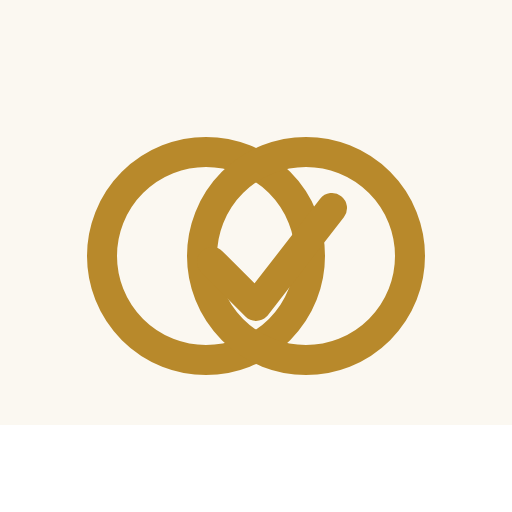
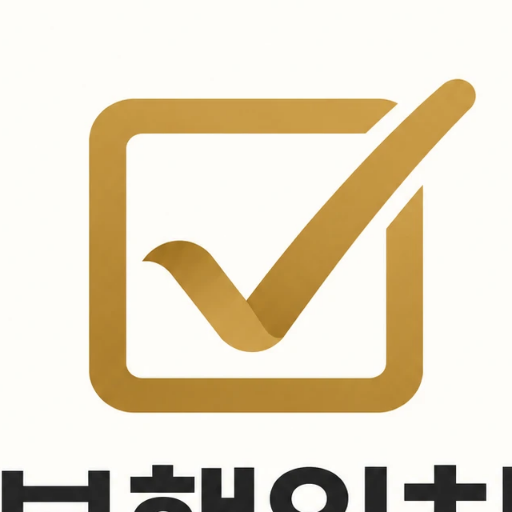
부행일치: 신규 로고 반영, Pretendard 적용, 모던 스타일 리디자인
Claude-Session: https://claude.ai/code/session_01XVsM6j29rv1hchbM6fNT17

diff --git a/habit-app/web/src/components/ui.tsx b/habit-app/web/src/components/ui.tsx
@@ -2,19 +2,20 @@ import type { ButtonHTMLAttributes, InputHTMLAttributes, ReactNode } from "react
 
 const cx = (...a: (string | false | undefined)[]) => a.filter(Boolean).join(" ");
 
-// 골드 버튼 위 글자는 흰색이 아니라 ink (대비 확보)
+// 기본 버튼은 잉크(검정), 골드는 인증 버튼 등 핵심 지점에만 쓴다. 골드 위 글자는 흰색이 아니라 ink.
 export function Button({ variant = "primary", block, className, ...p }:
-  ButtonHTMLAttributes<HTMLButtonElement> & { variant?: "primary" | "line" | "plain" | "danger"; block?: boolean }) {
+  ButtonHTMLAttributes<HTMLButtonElement> & { variant?: "primary" | "gold" | "line" | "plain" | "danger"; block?: boolean }) {
   return (
     <button
       {...p}
       className={cx(
-        "min-h-11 px-4 rounded-lg font-semibold transition-colors disabled:cursor-not-allowed",
+        "inline-flex min-h-12 items-center justify-center gap-2 rounded-2xl px-5 font-bold transition-[background-color,transform] active:scale-[0.98] disabled:cursor-not-allowed disabled:active:scale-100",
         block && "w-full",
-        variant === "primary" && "bg-gold text-ink hover:bg-[#a67a24] disabled:bg-mute disabled:text-ink/70",
-        variant === "line" && "border border-ink/25 text-ink bg-transparent hover:bg-gold-light disabled:text-ink/40",
-        variant === "plain" && "text-ink underline underline-offset-2 disabled:text-ink/40",
-        variant === "danger" && "border border-ink text-ink hover:bg-ink hover:text-paper disabled:opacity-40",
+        variant === "primary" && "bg-ink text-paper hover:bg-ink/90 disabled:bg-mute disabled:text-ink/50",
+        variant === "gold" && "bg-gold text-ink hover:bg-[#a67a24] disabled:bg-mute disabled:text-ink/50",
+        variant === "line" && "bg-gold-light/70 text-ink hover:bg-gold-light disabled:text-ink/40",
+        variant === "plain" && "min-h-11 px-1 font-semibold underline underline-offset-4 disabled:text-ink/40",
+        variant === "danger" && "bg-transparent text-ink ring-1 ring-ink/30 hover:bg-ink hover:text-paper disabled:opacity-40",
         className,
       )}
     />
@@ -23,8 +24,8 @@ export function Button({ variant = "primary", block, className, ...p }:
 
 export function Card({ title, children, className }: { title?: string; children: ReactNode; className?: string }) {
   return (
-    <section className={cx("rounded-xl border border-ink/10 bg-white p-4", className)}>
-      {title && <h2 className="mb-2 text-base font-bold">{title}</h2>}
+    <section className={cx("rounded-3xl bg-white p-5 ring-1 ring-ink/[0.06]", className)}>
+      {title && <h2 className="mb-3 text-[15px] font-bold text-ink/70">{title}</h2>}
       {children}
     </section>
   );
@@ -33,9 +34,9 @@ export function Card({ title, children, className }: { title?: string; children:
 export function Field({ label, hint, ...p }: InputHTMLAttributes<HTMLInputElement> & { label: string; hint?: string }) {
   return (
     <label className="block">
-      <span className="mb-1 block text-sm font-semibold">{label}</span>
-      <input {...p} className={cx("min-h-11 w-full rounded-lg border border-ink/25 bg-white px-3 text-base", p.className)} />
-      {hint && <span className="mt-1 block text-sm text-ink/70">{hint}</span>}
+      <span className="mb-1.5 block text-sm font-semibold text-ink/80">{label}</span>
+      <input {...p} className={cx("min-h-13 w-full rounded-2xl border-0 bg-white px-4 text-base ring-1 ring-ink/15 placeholder:text-ink/40 focus:outline-none focus:ring-2 focus:ring-ink disabled:bg-ink/5", p.className)} />
+      {hint && <span className="mt-1.5 block text-sm text-ink/70">{hint}</span>}
     </label>
   );
 }
@@ -43,16 +44,16 @@ export function Field({ label, hint, ...p }: InputHTMLAttributes<HTMLInputElemen
 export function Notice({ children, tone = "info" }: { children: ReactNode; tone?: "info" | "warn" | "error" }) {
   return (
     <div role={tone === "error" ? "alert" : undefined}
-      className={cx("rounded-lg px-3 py-2 text-sm", tone === "info" && "bg-gold-light", tone === "warn" && "border border-gold bg-gold-light", tone === "error" && "border border-ink bg-white font-semibold")}>
+      className={cx("rounded-2xl px-4 py-3 text-sm leading-relaxed", tone === "info" && "bg-gold-light/70", tone === "warn" && "bg-gold-light ring-1 ring-gold/50", tone === "error" && "bg-white font-semibold ring-1 ring-ink")}>
       {children}
     </div>
   );
 }
 
-export const Spinner = () => <p className="py-10 text-center text-ink/70">불러오는 중…</p>;
+export const Spinner = () => <p className="py-16 text-center text-ink/70">불러오는 중…</p>;
 export const Muted = ({ children, className }: { children: ReactNode; className?: string }) => <p className={cx("text-sm text-ink/70", className)}>{children}</p>;
 export const Row = ({ k, v }: { k: string; v: ReactNode }) => (
-  <div className="flex items-start justify-between gap-3 py-1"><span className="shrink-0 whitespace-nowrap text-ink/70">{k}</span><span className="min-w-0 text-right font-semibold [overflow-wrap:anywhere]">{v}</span></div>
+  <div className="flex items-start justify-between gap-4 py-1.5"><span className="shrink-0 whitespace-nowrap text-ink/70">{k}</span><span className="min-w-0 text-right font-semibold [overflow-wrap:anywhere]">{v}</span></div>
 );
 
 export async function copyText(t: string) {

diff --git a/habit-app/web/src/pages/Home.tsx b/habit-app/web/src/pages/Home.tsx
@@ -8,8 +8,10 @@ import Gauge from "../components/Gauge";
 import PayBox from "../components/PayBox";
 import { fmtDate, fmtKst } from "../lib/format";
 import { useInfo } from "./Legal";
+import { useAuth } from "../lib/auth";
 
 export default function Home() {
+  const { profile } = useAuth();
   const home = useAsync(() => rpc<HomeT>("get_home"));
   const mem = useAsync(async () => {
     const { data } = await supabase.from("memberships").select("*").maybeSingle();
@@ -42,12 +44,15 @@ export default function Home() {
 
   return (
     <>
-      <p className="mb-3 rounded-lg bg-gold-light px-3 py-2 text-center text-sm font-semibold">28일 중 8일은 쉬어도 됩니다</p>
-      {inCohort
-        ? <p className="mb-2 text-center text-ink/70">{h.cohort_no}기 · {d}일차 · 남은 {h.days_left}일</p>
-        : <p className="mb-2 text-center text-ink/70">{h.cohort_no}기 시작 {fmtDate(h.start_date)}</p>}
+      <div className="mb-5">
+        <p className="text-sm font-semibold text-ink/70">{inCohort ? `${h.cohort_no}기 · ${d}일차 · 남은 ${h.days_left}일` : `${h.cohort_no}기 시작 ${fmtDate(h.start_date)}`}</p>
+        <h1 className="mt-1 text-[28px] font-extrabold leading-tight tracking-tight">
+          {h.checked_today ? <>오늘 약속,<br />지켰어요</> : <>{profile?.nickname ?? "참가자"}님,<br />오늘도 한 번이면 충분해요</>}
+        </h1>
+        <p className="mt-2 inline-block rounded-full bg-gold-light px-3 py-1 text-sm font-semibold">28일 중 8일은 쉬어도 됩니다</p>
+      </div>
       <Gauge percent={h.percent ?? 0} count={h.count ?? 0} goal={h.goal ?? 20} />
-      <div className="mt-5 space-y-3">
+      <div className="mt-6 space-y-3">
         {h.participation_status === "topup_pending" && (
           <>
             <Notice tone="warn">보증금 재납부가 필요해요. 기한: {fmtKst(h.topup_due_at)}까지 (미납 시 이번 기수 참여가 취소돼요)</Notice>
@@ -77,9 +82,9 @@ export default function Home() {
       </div>
 
       {/* 하단 고정 인증 버튼 (56px 이상, safe-area 적용) */}
-      <div className="fixed inset-x-0 bottom-0 border-t border-ink/10 bg-paper px-4 pt-3" style={{ paddingBottom: "max(12px, env(safe-area-inset-bottom))" }}>
+      <div className="fixed inset-x-0 bottom-0 bg-gradient-to-t from-paper via-paper to-paper/0 px-5 pt-6" style={{ paddingBottom: "max(12px, env(safe-area-inset-bottom))" }}>
         <div className="mx-auto max-w-md">
-          <Button block className="h-14 text-lg" disabled={!h.can_checkin || busy} onClick={checkin}>{busy ? "처리 중…" : label}</Button>
+          <Button variant="gold" block className={`h-14 text-lg ${h.checked_today ? "!bg-ink !text-paper" : ""}`} disabled={(!h.can_checkin && !h.checked_today) || busy} onClick={h.checked_today ? undefined : checkin}>{busy ? "처리 중…" : h.checked_today ? <><span className="text-gold">✓</span> {label}</> : label}</Button>
         </div>
       </div>
     </>

diff --git a/habit-app/web/src/pages/Login.tsx b/habit-app/web/src/pages/Login.tsx
@@ -2,7 +2,7 @@ import { useState, type FormEvent } from "react";
 import { Link } from "react-router-dom";
 import { supabase, SUPABASE_URL, SUPABASE_KEY } from "../lib/supabase";
 import { Button, Field, Notice } from "../components/ui";
-import Logo from "../components/Logo";
+import Logo, { Wordmark } from "../components/Logo";
 import InAppBanner from "../components/InAppBanner";
 
 // S1: 로그인/가입. autocomplete 속성으로 기기의 비밀번호 관리자(지문/얼굴)가 채우게 한다.
@@ -38,13 +38,13 @@ export default function Login() {
   return (
     <div className="min-h-screen">
       <InAppBanner />
-      <div className="mx-auto max-w-md px-4 py-10">
-        <div className="mb-6 flex flex-col items-center gap-2"><Logo size={72} /><h1 className="text-2xl font-bold">부행일치</h1>
-          <p className="text-sm text-ink/70">부자로 가는 행동 일치</p></div>
-        <div className="mb-4 flex rounded-lg border border-ink/15 p-1">
+      <div className="mx-auto max-w-md px-5 py-12">
+        <div className="mb-8 flex flex-col items-center gap-3"><Logo size={84} /><h1><Wordmark size={34} /></h1>
+          <p className="text-[15px] text-ink/70">목표와 행동을 하루 한 번, 일치시켜요</p></div>
+        <div className="mb-5 flex gap-1 rounded-full bg-ink/[0.06] p-1">
           {(["login", "signup"] as const).map((m) => (
             <button key={m} type="button" onClick={() => { setMode(m); setErr(""); }}
-              className={`min-h-11 flex-1 rounded-md font-semibold ${mode === m ? "bg-gold text-ink" : "text-ink/70"}`}>{m === "login" ? "로그인" : "가입"}</button>
+              className={`min-h-11 flex-1 rounded-full font-semibold transition-colors ${mode === m ? "bg-white font-bold text-ink ring-1 ring-ink/10" : "text-ink/70"}`}>{m === "login" ? "로그인" : "가입"}</button>
           ))}
         </div>
         <form onSubmit={submit} className="space-y-3">
@@ -62,7 +62,7 @@ export default function Login() {
             </label>
           </>}
           {err && <Notice tone="error">{err}</Notice>}
-          <Button type="submit" block disabled={busy} className="h-12">{busy ? "처리 중…" : mode === "login" ? "로그인" : "가입하고 시작하기"}</Button>
+          <Button type="submit" block disabled={busy} className="h-14 text-base">{busy ? "처리 중…" : mode === "login" ? "로그인" : "가입하고 시작하기"}</Button>
         </form>
         <p className="mt-6 text-center text-sm text-ink/70"><Link to="/terms" className="underline">참여 규정</Link> · <Link to="/privacy" className="underline">개인정보 처리방침</Link></p>
       </div>

diff --git a/habit-app/web/src/components/MemberLayout.tsx b/habit-app/web/src/components/MemberLayout.tsx
@@ -1,22 +1,24 @@
 import { NavLink, Outlet } from "react-router-dom";
-import Logo from "./Logo";
+import Logo, { Wordmark } from "./Logo";
 import InAppBanner from "./InAppBanner";
 import { useAuth } from "../lib/auth";
 
 const tab = ({ isActive }: { isActive: boolean }) =>
-  `min-h-11 flex-1 inline-flex items-center justify-center border-b-2 text-sm font-semibold ${isActive ? "border-gold text-ink" : "border-transparent text-ink/70"}`;
+  `inline-flex min-h-11 flex-1 items-center justify-center rounded-full text-[15px] transition-colors ${isActive ? "bg-white font-bold text-ink ring-1 ring-ink/10" : "font-semibold text-ink/70"}`;
 
 export default function MemberLayout() {
   const { isAdmin } = useAuth();
   return (
     <div className="min-h-screen">
       <InAppBanner />
-      <header className="sticky top-0 z-10 border-b border-ink/10 bg-paper">
-        <div className="mx-auto flex max-w-md items-center gap-2 px-4 pt-2"><Logo size={26} /><b>부행일치</b>
-          {isAdmin && <NavLink to="/admin" className="ml-auto text-sm underline">관리자</NavLink>}</div>
-        <nav className="mx-auto flex max-w-md px-2"><NavLink to="/" end className={tab}>홈</NavLink><NavLink to="/progress" className={tab}>진행 현황</NavLink><NavLink to="/my" className={tab}>마이</NavLink></nav>
+      <header className="mx-auto max-w-md px-5 pt-4">
+        <div className="flex items-center gap-2"><Logo size={28} /><Wordmark size={19} />
+          {isAdmin && <NavLink to="/admin" className="ml-auto rounded-full bg-ink px-3 py-1.5 text-sm font-semibold text-paper">관리자</NavLink>}</div>
+        <nav className="mt-4 flex gap-1 rounded-full bg-ink/[0.06] p-1">
+          <NavLink to="/" end className={tab}>홈</NavLink><NavLink to="/progress" className={tab}>진행 현황</NavLink><NavLink to="/my" className={tab}>마이</NavLink>
+        </nav>
       </header>
-      <main className="mx-auto max-w-md px-4 pb-40 pt-4"><Outlet /></main>
+      <main className="mx-auto max-w-md px-5 pb-40 pt-6"><Outlet /></main>
     </div>
   );
 }

diff --git a/habit-app/web/src/components/Gauge.tsx b/habit-app/web/src/components/Gauge.tsx
@@ -1,16 +1,16 @@
 // 원형 게이지. percent 는 0~100 로 고정(넘어도 100% 표시), 횟수는 별도로 계속 누적 표시.
 export default function Gauge({ percent, count, goal }: { percent: number; count: number; goal: number }) {
-  const r = 84, c = 2 * Math.PI * r, p = Math.max(0, Math.min(100, percent));
+  const r = 86, c = 2 * Math.PI * r, p = Math.max(0, Math.min(100, percent));
   return (
-    <div className="relative mx-auto h-56 w-56" role="img" aria-label={`달성률 ${p}%, 인증 ${count}회 / 목표 ${goal}회`}>
+    <div className="relative mx-auto h-60 w-60" role="img" aria-label={`달성률 ${p}%, 인증 ${count}회 / 목표 ${goal}회`}>
       <svg viewBox="0 0 200 200" className="h-full w-full -rotate-90">
-        <circle cx="100" cy="100" r={r} fill="none" stroke="#EFE3C2" strokeWidth="16" />
-        <circle cx="100" cy="100" r={r} fill="none" stroke="#B8892B" strokeWidth="16" strokeLinecap="round"
+        <circle cx="100" cy="100" r={r} fill="none" stroke="#EFE3C2" strokeWidth="13" />
+        <circle cx="100" cy="100" r={r} fill="none" stroke="#B8892B" strokeWidth="13" strokeLinecap="round"
           strokeDasharray={c} strokeDashoffset={c * (1 - p / 100)} style={{ transition: "stroke-dashoffset .6s ease" }} />
       </svg>
       <div className="absolute inset-0 flex flex-col items-center justify-center">
-        <span className="text-5xl font-bold tabular-nums">{p}<span className="text-2xl">%</span></span>
-        <span className="mt-1 text-lg font-semibold tabular-nums">{count} / {goal}회</span>
+        <span className="text-[64px] font-extrabold leading-none tracking-tight tabular-nums">{p}<span className="ml-0.5 text-2xl font-bold">%</span></span>
+        <span className="mt-2 rounded-full bg-ink/[0.06] px-3 py-1 text-sm font-bold tabular-nums">{count} / {goal}회</span>
       </div>
     </div>
   );

diff --git a/habit-app/web/src/pages/Progress.tsx b/habit-app/web/src/pages/Progress.tsx
@@ -27,7 +27,7 @@ export default function Progress() {
   return (
     <div className="space-y-3">
       <Card title={`${h.cohort_no}기 진행 현황`}>
-        <p className="text-3xl font-bold tabular-nums">{p.count}<span className="text-lg font-semibold"> / 28일 인증</span></p>
+        <p className="text-5xl font-extrabold tracking-tight tabular-nums">{p.count}<span className="text-lg font-semibold"> / 28일 인증</span></p>
         <p className="mt-1 text-sm text-ink/70">{p.remaining_to_goal > 0 ? `성공까지 ${p.remaining_to_goal}회 남았어요 (목표 ${p.success_min}회)` : `목표 ${p.success_min}회 달성! 계속 쌓아 보세요`}</p>
         <div className="relative mt-6 h-3 rounded-full bg-gold-light" aria-hidden>
           <div className="h-3 rounded-full bg-gold" style={{ width: pct(Math.min(p.count, 28)) }} />
@@ -45,7 +45,7 @@ export default function Progress() {
         <div className="grid grid-cols-7 gap-1">
           {cells.map((c) => (
             <div key={c.i} aria-label={`${c.iso} ${c.on ? "인증함" : "미인증"}`}
-              className={`flex aspect-square flex-col items-center justify-center rounded-lg text-xs ${c.on ? "bg-gold text-ink font-bold" : c.past ? "bg-mute/40 text-ink/70" : "border border-ink/10"} ${c.today ? "ring-2 ring-ink" : ""}`}>
+              className={`flex aspect-square flex-col items-center justify-center rounded-2xl text-xs ${c.on ? "bg-gold text-ink font-bold" : c.past ? "bg-ink/[0.06] text-ink/60" : "bg-white ring-1 ring-ink/10"} ${c.today ? "ring-2 !ring-ink" : ""}`}>
               <span>{c.day}</span>{c.on && <span aria-hidden>✓</span>}
             </div>
           ))}

diff --git a/habit-app/web/src/index.css b/habit-app/web/src/index.css
@@ -1,3 +1,4 @@
+@import "pretendard/dist/web/variable/pretendardvariable-dynamic-subset.css";
 @import "tailwindcss";
 
 @theme {
@@ -6,7 +7,7 @@
   --color-paper: #FBF8F1;
   --color-ink: #1E1E24;
   --color-mute: #C9CED6;
-  --font-sans: "Pretendard", "Noto Sans KR", -apple-system, BlinkMacSystemFont, "Apple SD Gothic Neo", "Malgun Gothic", system-ui, sans-serif;
+  --font-sans: "Pretendard Variable", Pretendard, -apple-system, BlinkMacSystemFont, "Apple SD Gothic Neo", "Malgun Gothic", system-ui, sans-serif;
 }
 
 html, body, #root { min-height: 100%; }
@@ -15,9 +16,15 @@ body {
   color: var(--color-ink);
   font-family: var(--font-sans);
   font-size: 16px;
-  line-height: 1.55;
+  line-height: 1.5;
+  letter-spacing: -0.01em;
+  -webkit-font-smoothing: antialiased;
   -webkit-text-size-adjust: 100%;
   overscroll-behavior-y: none;
 }
-input, select, textarea, button { font: inherit; font-size: 16px; }
+@layer base {
+  input, select, textarea, button { font-family: inherit; letter-spacing: inherit; }
+  input, select, textarea { font-size: 16px; } /* iOS 자동 확대 방지 */
+}
 :focus-visible { outline: 2px solid var(--color-ink); outline-offset: 2px; }
+::selection { background: var(--color-gold-light); }

diff --git a/habit-app/web/src/components/Logo.tsx b/habit-app/web/src/components/Logo.tsx
@@ -1,10 +1,13 @@
-// 겹친 두 원(목표와 행동의 일치) + 체크. 골드 단색.
+// 부행일치 심볼: 둥근 사각형(목표) + 그 밖으로 뻗는 체크(행동). 골드 단색.
 export default function Logo({ size = 32 }: { size?: number }) {
   return (
-    <svg width={size} height={size} viewBox="0 0 64 64" role="img" aria-label="부행일치">
-      <g fill="none" stroke="#B8892B" strokeWidth="5" strokeLinecap="round" strokeLinejoin="round">
-        <circle cx="26" cy="32" r="16" /><circle cx="38" cy="32" r="16" /><path d="M25 33l6 6 10-13" />
-      </g>
+    <svg width={size} height={size} viewBox="0 0 64 64" role="img" aria-label="부행일치" fill="none" stroke="#B8892B" strokeWidth="7">
+      <path d="M35 13H21a8 8 0 0 0-8 8v22a8 8 0 0 0 8 8h22a8 8 0 0 0 8-8V33" strokeLinecap="butt" />
+      <path d="M22 34l10 11L56 10" strokeLinecap="round" strokeLinejoin="round" />
     </svg>
   );
+}
+
+export function Wordmark({ size = 18 }: { size?: number }) {
+  return <span className="font-extrabold tracking-tight" style={{ fontSize: size }}>부행일치</span>;
 }

diff --git a/habit-app/web/index.html b/habit-app/web/index.html
@@ -3,7 +3,7 @@
   <head>
     <meta charset="UTF-8" />
     <meta name="viewport" content="width=device-width, initial-scale=1, viewport-fit=cover" />
-    <meta name="theme-color" content="#B8892B" />
+    <meta name="theme-color" content="#FBF8F1" />
     <link rel="icon" type="image/svg+xml" href="/favicon.svg" />
     <link rel="apple-touch-icon" href="/icon-192.png" />
     <title>부행일치</title>

diff --git a/habit-app/web/vite.config.ts b/habit-app/web/vite.config.ts
@@ -18,7 +18,7 @@ export default defineConfig({
         start_url: "/",
         display: "standalone",
         background_color: "#FBF8F1",
-        theme_color: "#B8892B",
+        theme_color: "#FBF8F1",
         icons: [
           { src: "icon-192.png", sizes: "192x192", type: "image/png" },
           { src: "icon-512.png", sizes: "512x512", type: "image/png" },
